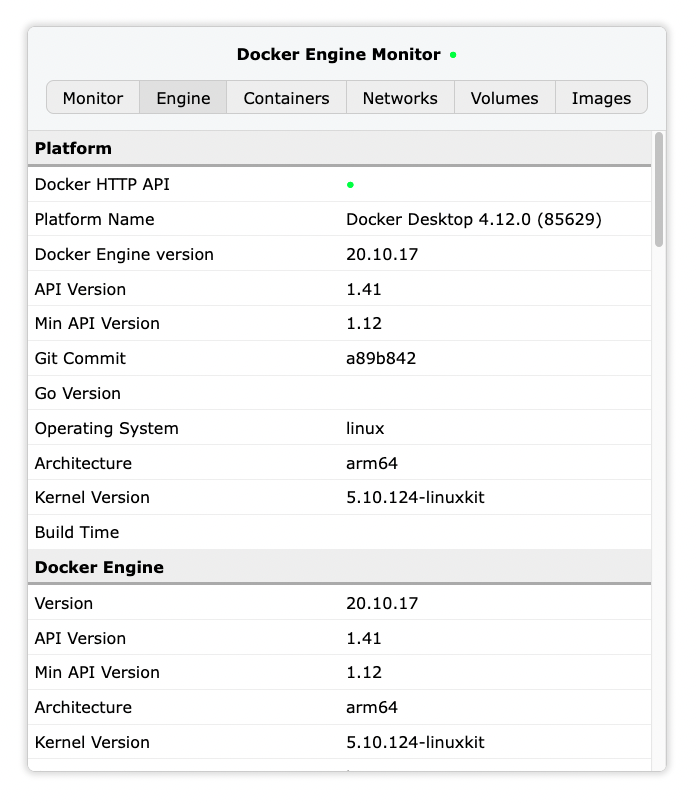
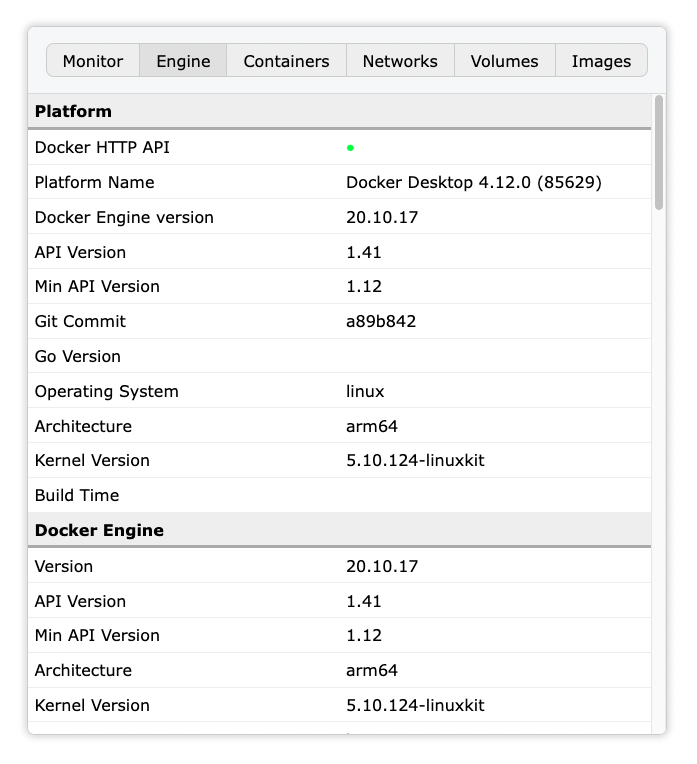
Change app name to Docker Monitor

diff --git a/src/components/Header.js b/src/components/Header.js
@@ -16,10 +16,6 @@ function Header(props) {
     return (
         <div className="Header">
             <div className="layout-box">
-                <div>
-                    <h1>Docker Engine Monitor</h1>
-                    <StatusDot check={canReachDocker} ms={1000} />
-                </div>
                 <ul className="tab-bar">
                     <li className={selected('monitor')}     onClick={() => setPanelName('monitor')} >Monitor</li>
                     <li className={selected('engine')}      onClick={() => setPanelName('engine')} >Engine</li>

diff --git a/README.md b/README.md
@@ -1,4 +1,4 @@
-# Docker Engine Monitor
+# Docker Monitor
 
 ## About
 
@@ -13,7 +13,7 @@ Why I made this:
 
 ## Setup
 
-Set the `HOST` and `PORT`.
+See `src/config.js`.
 
 ## Screenshot
 
@@ -33,8 +33,8 @@ Reference: [Docker Engine API (1.41)](https://docs.docker.com/engine/api/v1.41)
 |   | `GET`    | `/v1.41/containers/{id}/top`        |
 |   | `GET`    | `/v1.41/containers/{id}/logs`       |
 |   | `GET`    | `/v1.41/containers/{id}/changes`    |
-|   | `GET`    | `/v1.41/containers/{id}/export`     |
 |   | `GET`    | `/v1.41/containers/{id}/stats`      |
+| ✕ | `GET`    | `/v1.41/containers/{id}/export`     |
 | ✕ | `GET`    | `/v1.41/containers/{id}/attach/ws`  |
 | ✕ | `GET`    | `/v1.41/containers/{id}/archive`    |
 | ✕ | `HEAD`   | `/v1.41/containers/{id}/archive`    |
